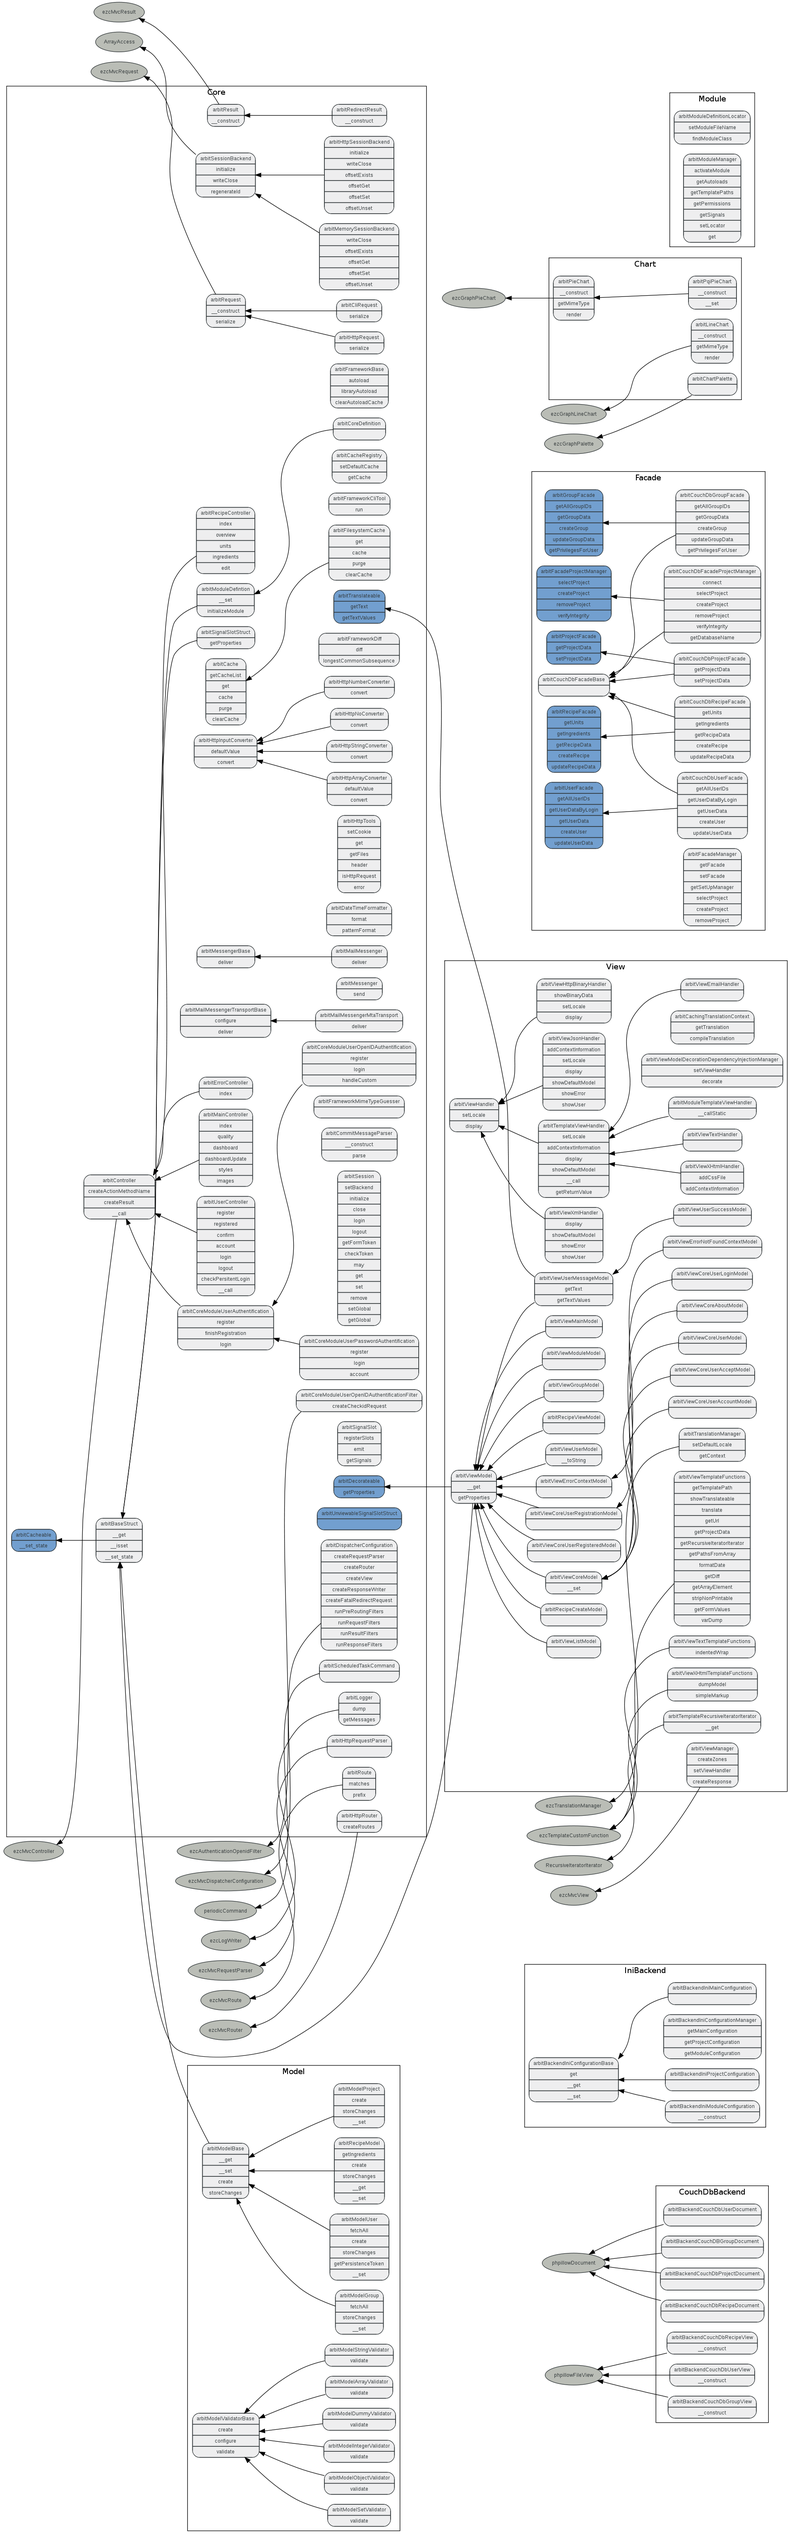
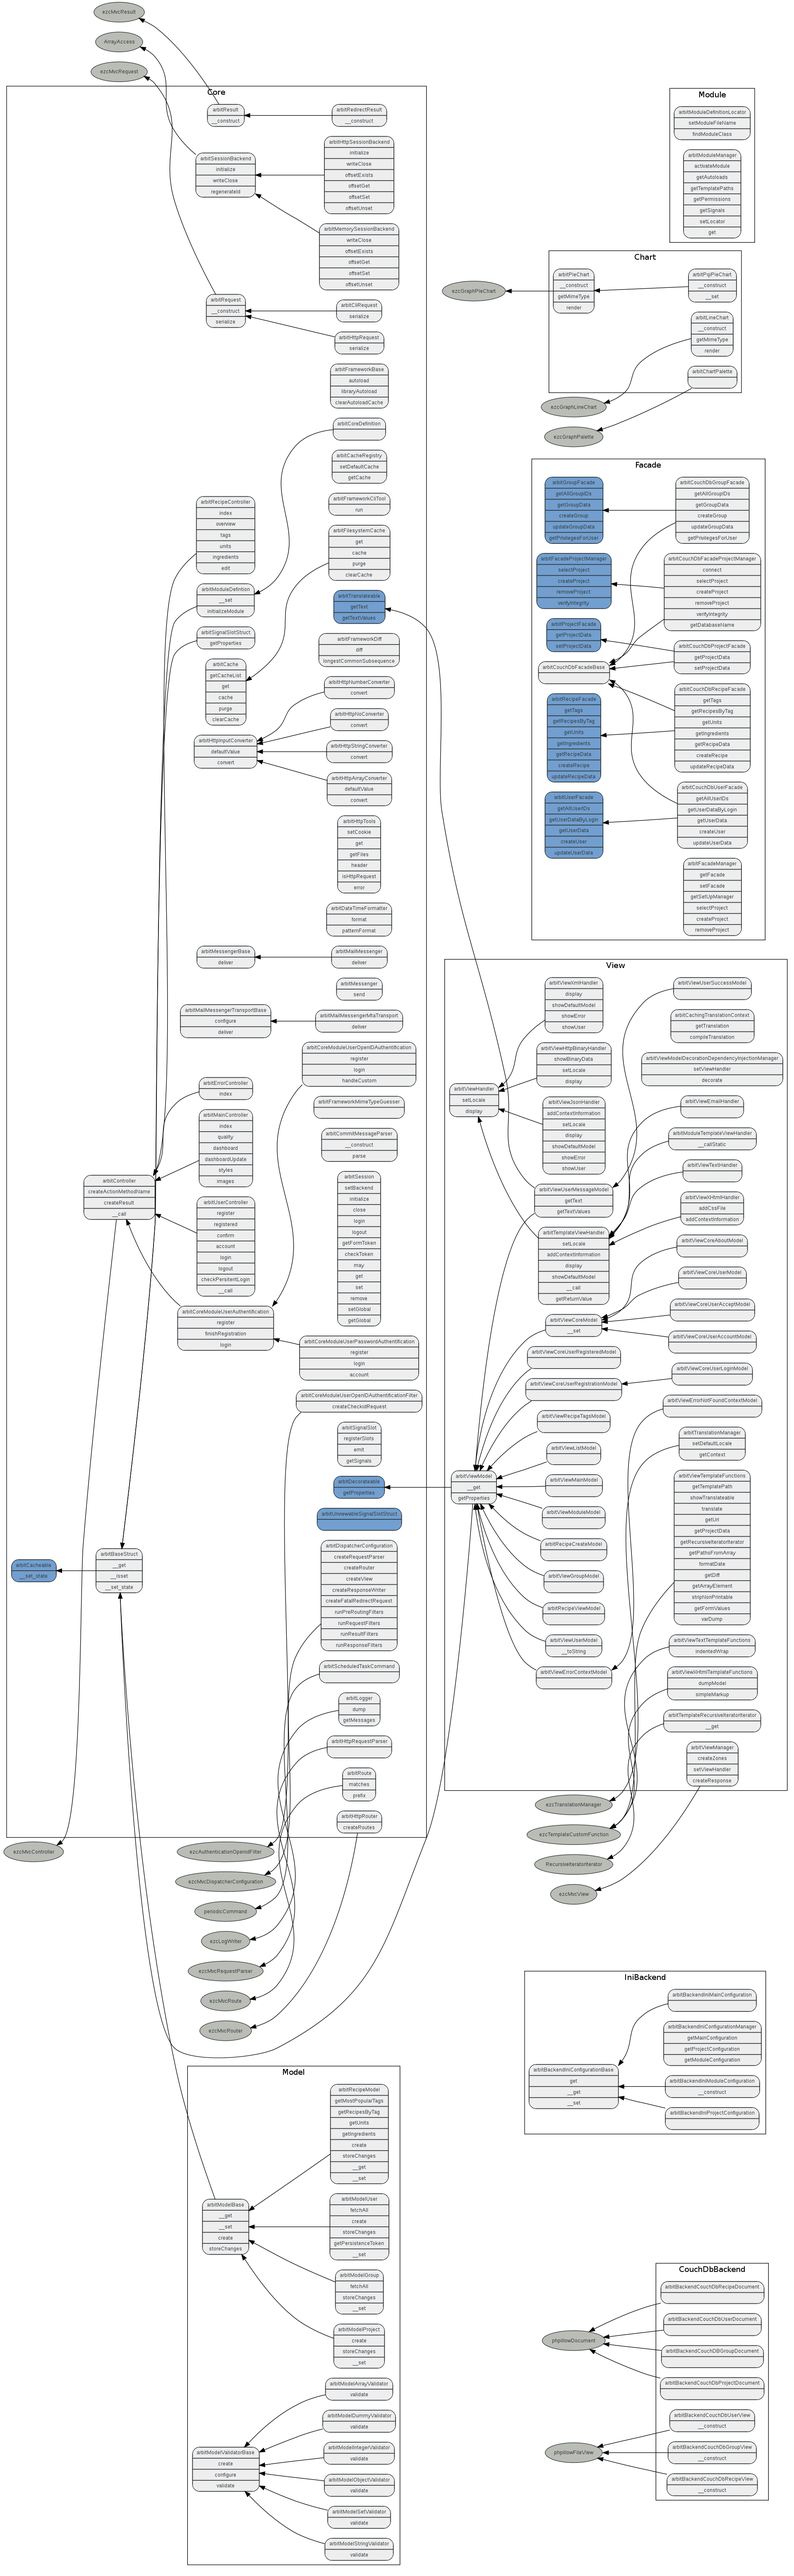
- Implemented: Tag based recipe listing

diff --git a/htdocs/styles/screen.css b/htdocs/styles/screen.css
@@ -225,15 +225,15 @@ h2 {
 }
 
 h3 {
-	font-size: 1.4em;
+	font-size: 1.3em;
 }
 
 h4 {
-	font-size: 1.2em;
+	font-size: 1.1em;
 }
 
 h5 {
-	font-size: 1.1em;
+	font-size: 1em;
 }
 
 div.content div.body {
@@ -377,6 +377,60 @@ div.content dd {
 	margin-left: 21%;
 	width: 79%;
 	padding: .1em .1em .5em .1em;
+}
+
+div.content ul.cloud {
+    text-align: center;
+	list-style-type: none;
+    margin: .5em 0em;
+    padding: 0em;
+}
+
+div.content ul.cloud li {
+    display: inline;
+}
+
+div.content ul.cloud li.tag0 a {
+    font-size: .6em;
+}
+
+div.content ul.cloud li.tag1 a {
+    font-size: .8em;
+}
+
+div.content ul.cloud li.tag2 a {
+    font-size: 1em;
+}
+
+div.content ul.cloud li.tag3 a {
+    font-size: 1.2em;
+}
+
+div.content ul.cloud li.tag4 a {
+    font-size: 1.4em;
+}
+
+div.content ul.cloud li.tag5 a {
+    font-size: 1.6em;
+}
+
+.content table.tags {
+    border: none;
+}
+
+.content table.tags td {
+    border: none;
+    width: 33%;
+    vertical-align: top;
+}
+
+.content table.tags td > ul {
+    list-style-type: none;
+    padding-left: 0em;
+}
+
+.content table.tags td li {
+	padding: 0em;
 }
 
 /**

diff --git a/classes/backend/couchdb/view/map/recipe_tags.js b/classes/backend/couchdb/view/map/recipe_tags.js
@@ -1,0 +1,10 @@
+function( doc )
+{
+    if ( doc.type == "recipe" )
+    {
+        for( var key = 0; key < doc.tags.length; ++key ) 
+        {
+            emit( doc.tags[key], doc._id );
+        }
+    }
+}

diff --git a/classes/facade/couchdb/recipe.php b/classes/facade/couchdb/recipe.php
@@ -35,6 +35,65 @@
 class arbitCouchDbRecipeFacade extends arbitCouchDbFacadeBase implements arbitRecipeFacade
 {
     /**
+     * Get tag list
+     *
+     * Return a list of tags, each associated with the number of occurences in 
+     * the recipes.
+     *
+     * @return array
+     */
+    public function getTags()
+    {
+        $issues = phpillowManager::getView( 'recipe' );
+        $result = $issues->query( 'tags', array(
+            'group' => true,
+        ) );
+
+        if ( !count( $result->rows ) )
+        {
+            return array();
+        }
+
+        $tags = array();
+        foreach ( $result->rows as $row )
+        {
+            $tags[$row['key']] = (int) is_array( $row['value'] ) ? reset( $row['value'] ) : $row['value'];
+        }
+
+        return $tags;
+    }
+
+    /**
+     * Get recipes by tag
+     *
+     * Return the IDs of all recipes, which contain the given tag,
+     *
+     * @param string $tag
+     * @return array
+     */
+    public function getRecipesByTag( $tag )
+    {
+        $issues = phpillowManager::getView( 'recipe' );
+        $result = $issues->query( 'tags', array(
+            'group' => false,
+            'key'   => $tag,
+        ) );
+
+        if ( !count( $result->rows ) )
+        {
+            return array();
+        }
+
+        $docs = array();
+        foreach ( $result->rows as $row )
+        {
+            $docs[] = is_array( $row['value'] ) ? reset( $row['value'] ) : $row['value'];
+        }
+
+        return $docs;
+    }
+
+    /**
      * Get unit list
      *
      * Return a list of units, starting with the provided characters. 
@@ -47,9 +106,9 @@ class arbitCouchDbRecipeFacade extends arbitCouchDbFacadeBase implements arbitRe
     {
         $issues = phpillowManager::getView( 'recipe' );
         $result = $issues->query( 'units', array(
-            'group' => true,
+            'group'    => true,
             'startkey' => $string,
-            'endkey' => $string . "\xE9\xA6\x99",
+            'endkey'   => $string . "\xE9\xA6\x99",
         ) );
 
         if ( !count( $result->rows ) )
@@ -80,9 +139,9 @@ class arbitCouchDbRecipeFacade extends arbitCouchDbFacadeBase implements arbitRe
     {
         $issues = phpillowManager::getView( 'recipe' );
         $result = $issues->query( 'ingredients', array(
-            'group' => true,
+            'group'    => true,
             'startkey' => $string,
-            'endkey' => $string . "\xE9\xA6\x99",
+            'endkey'   => $string . "\xE9\xA6\x99",
         ) );
 
         if ( !count( $result->rows ) )

diff --git a/classes/view/model/recipe_tags.php b/classes/view/model/recipe_tags.php
@@ -1,0 +1,57 @@
+<?php
+/**
+ * arbit view
+ *
+ * This file is part of arbit.
+ *
+ * arbit is free software; you can redistribute it and/or modify
+ * it under the terms of the GNU General Public License as published by
+ * the Free Software Foundation; version 3 of the License.
+ *
+ * arbit is distributed in the hope that it will be useful,
+ * but WITHOUT ANY WARRANTY; without even the implied warranty of
+ * MERCHANTABILITY or FITNESS FOR A PARTICULAR PURPOSE.  See the
+ * GNU General Public License for more details.
+ *
+ * You should have received a copy of the GNU General Public License
+ * along with arbit; if not, write to the Free Software
+ * Foundation, Inc., 51 Franklin St, Fifth Floor, Boston, MA  02110-1301  USA
+ *
+ * @package Core
+ * @subpackage View
+ * @version $Revision: 1480 $
+ * @license http://www.gnu.org/licenses/gpl-3.0.txt GPL
+ */
+
+/**
+ * Model struct representing recipe creation
+ *
+ * @package Core
+ * @subpackage View
+ * @version $Revision: 1480 $
+ * @license http://www.gnu.org/licenses/gpl-3.0.txt GPL
+ */
+class arbitViewRecipeTagsModel extends arbitViewModel
+{
+    /**
+     * Array containing the actual view data.
+     *
+     * @var array
+     */
+    protected $properties = array(
+        'popular' => array(),
+        'all'     => array(),
+    );
+
+    /**
+     * Construct view model
+     *
+     * @return void
+     */
+    public function __construct( array $popular = array(), array $all = array() )
+    {
+        $this->popular = $popular;
+        $this->all     = $all;
+    }
+}
+

diff --git a/classes/model/recipe.php b/classes/model/recipe.php
@@ -76,6 +76,57 @@ class arbitRecipeModel extends arbitModelBase
     );
 
     /**
+     * Get tags
+     *
+     * Return a list of tags, each associated with the number of occurences in 
+     * the recipes.
+     *
+     * @return array
+     */
+    public static function getTags()
+    {
+        $recipe = arbitFacadeManager::getFacade( 'recipe' );
+        return $recipe->getTags();
+    }
+
+    /**
+     * Get most popular tags
+     *
+     * Return a the $count most popular tags, sorted alphabetcally.
+     *
+     * @return array
+     */
+    public static function getMostPopularTags( $count = 20 )
+    {
+        $recipe = arbitFacadeManager::getFacade( 'recipe' );
+        $tags = $recipe->getTags();
+        arsort( $tags );
+        $mostPopular = array_splice( $tags, 0, $count );
+        ksort( $mostPopular );
+        return $mostPopular;
+    }
+
+    /**
+     * Get recipes by tag
+     *
+     * Return recipe models of all recipes, which contain the given tag,
+     *
+     * @param string $tag
+     * @return array
+     */
+    public function getRecipesByTag( $tag )
+    {
+        $recipe  = arbitFacadeManager::getFacade( 'recipe' );
+        $recipes = $recipe->getRecipesByTag( $tag );
+        return array_map( function( $id )
+            {
+                return new arbitRecipeModel( $id );
+            },
+            $recipes
+        );
+    }
+
+    /**
      * Get unit list
      *
      * Return a list of units, starting with the provided characters. 

diff --git a/classes/facade/base/recipe.php b/classes/facade/base/recipe.php
@@ -35,9 +35,29 @@
 interface arbitRecipeFacade
 {
     /**
+     * Get tag list
+     *
+     * Return a list of tags, each associated with the number of occurences in 
+     * the recipes. Sorted by popularity.
+     *
+     * @return array
+     */
+    public function getTags();
+
+    /**
+     * Get recipes by tag
+     *
+     * Return the IDs of all recipes, which contain the given tag,
+     *
+     * @param string $tag
+     * @return array
+     */
+    public function getRecipesByTag( $tag );
+
+    /**
      * Get unit list
      *
-     * Return a lsit of units, starting with the provided characters. 
+     * Return a list of units, starting with the provided characters. 
      * Sorted by popularity
      *
      * @param string $string
@@ -48,7 +68,7 @@ interface arbitRecipeFacade
     /**
      * Get ingredient list
      *
-     * Return a lsit of ingredients, starting with the provided characters. 
+     * Return a list of ingredients, starting with the provided characters. 
      * Sorted by popularity
      *
      * @param string $string

diff --git a/classes/autoload.php b/classes/autoload.php
@@ -205,6 +205,7 @@ return array(
     'arbitViewMainModel'                                 => 'classes/view/model/main.php',
     'arbitViewModuleModel'                               => 'classes/view/model/module.php',
     'arbitRecipeCreateModel'                             => 'classes/view/model/recipe_create.php',
+    'arbitViewRecipeTagsModel'                           => 'classes/view/model/recipe_tags.php',
     'arbitViewUserMessageModel'                          => 'classes/view/model/error.php',
     'arbitViewUserSuccessModel'                          => 'classes/view/model/success.php',
 );

diff --git a/classes/controller/recipe.php b/classes/controller/recipe.php
@@ -59,6 +59,22 @@ class arbitRecipeController extends arbitController
     }
 
     /**
+     * Tag listing action
+     *
+     * Provides an overview on the used tags
+     *
+     * @param arbitRequest $request
+     * @return arbitViewModel
+     */
+    public function tags( arbitRequest $request )
+    {
+        return new arbitViewRecipeTagsModel(
+            arbitRecipeModel::getMostPopularTags( 20 ),
+            arbitRecipeModel::getTags()
+        );
+    }
+
+    /**
      * Units actions
      *
      * Returns a list of the units, starting with the string, specified 

diff --git a/classes/view/handler/xhtml.php b/classes/view/handler/xhtml.php
@@ -52,7 +52,8 @@ class arbitViewXHtmlHandler extends arbitTemplateViewHandler
         'showCoreUserRegisteredModel'   => 'html/core/user/registered.tpl',
         'showCoreUserLoginModel'        => 'html/core/user/login.tpl',
         'showCoreUserModel'             => 'html/core/user.tpl',
-        'showRecipeCreateModel'        => 'html/recipe/create.tpl',
+        'showRecipeCreateModel'         => 'html/recipe/create.tpl',
+        'showRecipeTagsModel'           => 'html/recipe/tags.tpl',
     );
 
     /**

diff --git a/classes/backend/couchdb/view/recipe.php b/classes/backend/couchdb/view/recipe.php
@@ -53,6 +53,10 @@ class arbitBackendCouchDbRecipeView extends phpillowFileView
                 'map'    => __DIR__ . '/map/recipe_ingredients.js',
                 'reduce' => __DIR__ . '/reduce/sum.js',
             ),
+            'tags' => array(
+                'map'    => __DIR__ . '/map/recipe_tags.js',
+                'reduce' => __DIR__ . '/reduce/sum.js',
+            ),
         );
     }
 

diff --git a/classes/view/decorator_manager.php b/classes/view/decorator_manager.php
@@ -145,6 +145,10 @@ class arbitViewModelDecorationDependencyInjectionManager
                 'addContextInformation',
                 'showRecipeCreateModel',
             ),
+            'arbitViewRecipeTagsModel' => array(
+                'addContextInformation',
+                'showRecipeTagsModel',
+            ),
         ),
 
         /**
